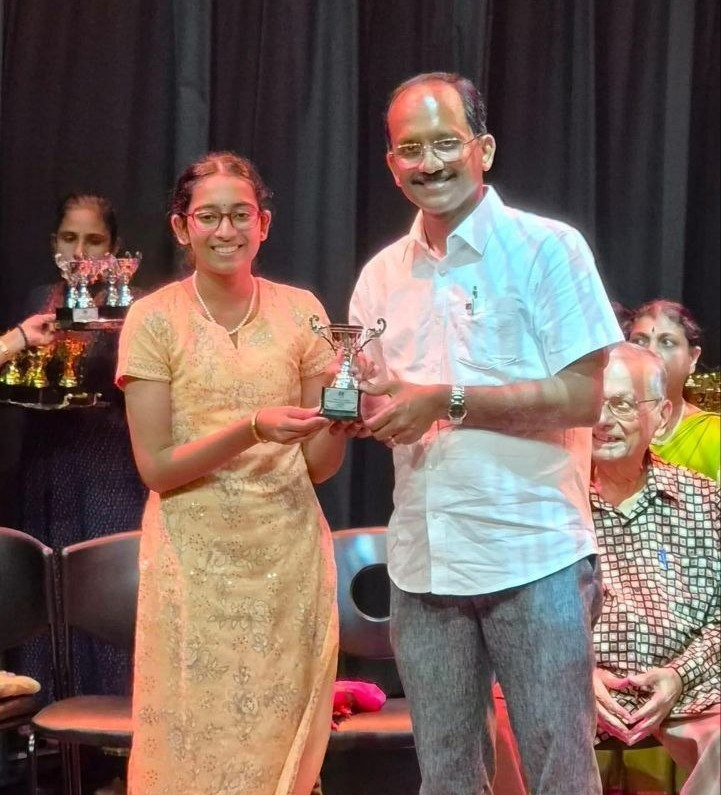
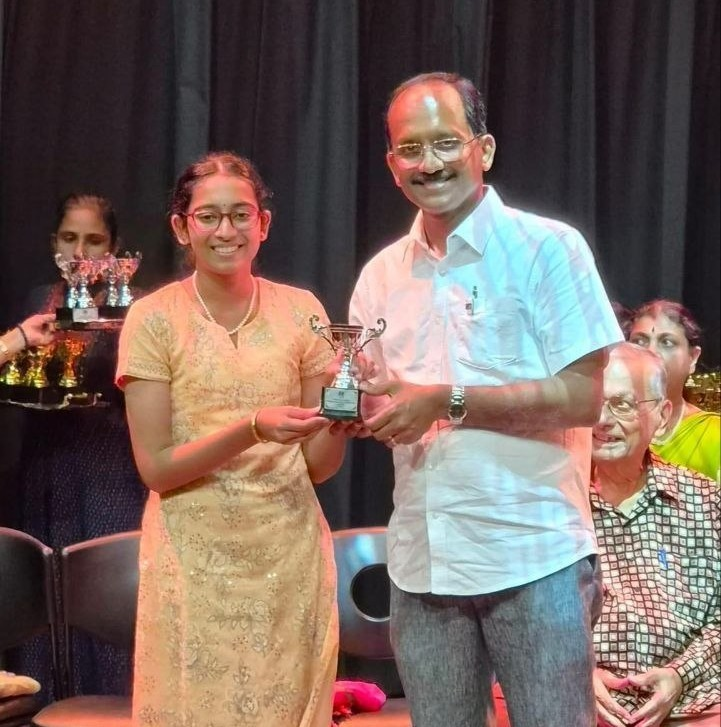
added more prize winner

diff --git a/prize-winners.html b/prize-winners.html
@@ -51,15 +51,24 @@
         </div>
       </article>       
       <article class="winner-card reveal">
-          <div class="winner-image-placeholder">
+        <div class="winner-image-placeholder">
           <img src="images/photo24.jpg" alt="Avigna" class="winner-uploaded-img" />
         </div>
-            </div>
-          </div>
+        <div class="winner-details">
+          <span class="winner-year">2026 Singai Palliya</span>
+          <h2>Avignaa Ram</h2>
+          <p class="winner-award">3rd Prize</p>
+        </div>
+      </article>       
+      <article class="winner-card reveal">
+        <div class="winner-image-placeholder">
+          <img src="images/photo25.jpg" alt="Avigna" class="winner-uploaded-img" />
+        </div>
           <div class="winner-details">
             <span class="winner-year">2026 Singai Palliya</span>
-            <h2>Avignaa Ram</h2>
-            <p class="winner-award">3rd Prize</p>
+            <h2>Shivani Balachandar</h2>
+            <p class="winner-award">1st Prize</p>
+            <div class="winner-divider"></div>
           </div>
         </article>        
         <article class="winner-card reveal">
@@ -75,7 +84,6 @@
             <h2>Winner Name</h2>
             <p class="winner-award">Prize / Award Title</p>
             <div class="winner-divider"></div>
-            <p class="winner-description">Add a short description here — for example, the competition name, category, achievement and any other details you would like visitors to know.</p>
           </div>
         </article>        
         <article class="winner-card reveal">
@@ -91,7 +99,6 @@
             <h2>Winner Name</h2>
             <p class="winner-award">Prize / Award Title</p>
             <div class="winner-divider"></div>
-            <p class="winner-description">Add a short description here — for example, the competition name, category, achievement and any other details you would like visitors to know.</p>
           </div>
         </article>        
         <article class="winner-card reveal">
@@ -107,7 +114,6 @@
             <h2>Winner Name</h2>
             <p class="winner-award">Prize / Award Title</p>
             <div class="winner-divider"></div>
-            <p class="winner-description">Add a short description here — for example, the competition name, category, achievement and any other details you would like visitors to know.</p>
           </div>
         </article>        
         <article class="winner-card reveal">
@@ -123,7 +129,6 @@
             <h2>Winner Name</h2>
             <p class="winner-award">Prize / Award Title</p>
             <div class="winner-divider"></div>
-            <p class="winner-description">Add a short description here — for example, the competition name, category, achievement and any other details you would like visitors to know.</p>
           </div>
         </article>        
         <article class="winner-card reveal">
@@ -139,7 +144,6 @@
             <h2>Winner Name</h2>
             <p class="winner-award">Prize / Award Title</p>
             <div class="winner-divider"></div>
-            <p class="winner-description">Add a short description here — for example, the competition name, category, achievement and any other details you would like visitors to know.</p>
           </div>
         </article>        
         <article class="winner-card reveal">
@@ -155,23 +159,6 @@
             <h2>Winner Name</h2>
             <p class="winner-award">Prize / Award Title</p>
             <div class="winner-divider"></div>
-            <p class="winner-description">Add a short description here — for example, the competition name, category, achievement and any other details you would like visitors to know.</p>
-          </div>
-        </article>        
-        <article class="winner-card reveal">
-          <div class="winner-image-placeholder">
-            <div class="winner-placeholder-inner">
-              <i class="ti ti-photo"></i>
-              <span>Add winner photo</span>
-              <small>Replace this placeholder image</small>
-            </div>
-          </div>
-          <div class="winner-details">
-            <span class="winner-year">YEAR / EVENT</span>
-            <h2>Winner Name</h2>
-            <p class="winner-award">Prize / Award Title</p>
-            <div class="winner-divider"></div>
-            <p class="winner-description">Add a short description here — for example, the competition name, category, achievement and any other details you would like visitors to know.</p>
           </div>
         </article>
       </div>
